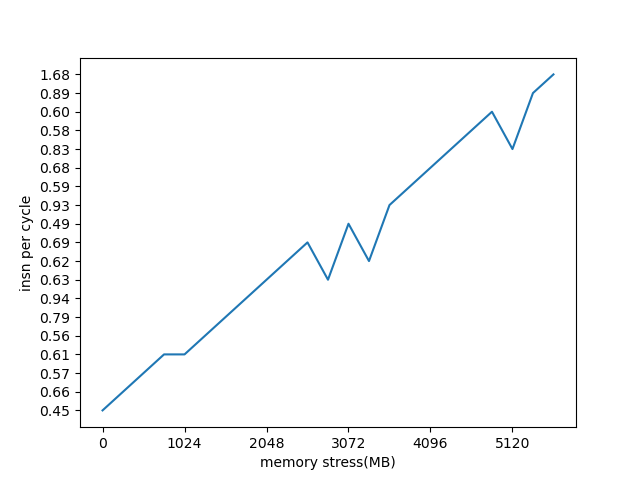
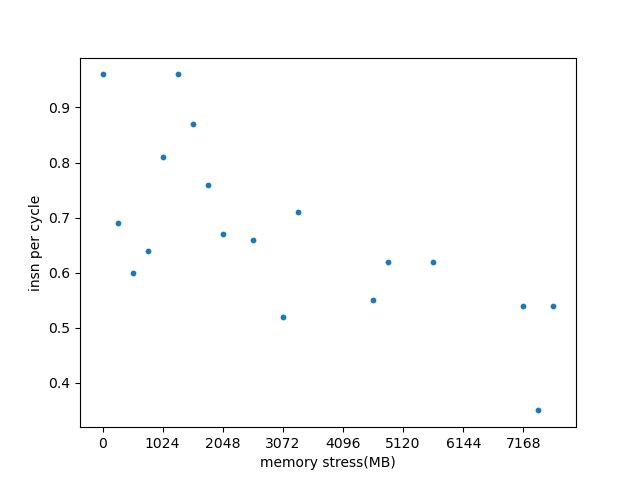
draw pics

diff --git a/data_analyse/redis_cpi.py b/data_analyse/redis_cpi.py
@@ -9,24 +9,44 @@ def read_file(file_name):
     return lines
 
 
-lines = read_file('../results_redis/redis_cpi_mem_202312062251.txt')
+lines = read_file('../results_redis/redis_cpi_mem_202312072211.txt')
 content = ''
-for line in lines:
-    content += line
-
 pattern = r'(\d+\.\d+),insn per cycle'
+cpi = []
+for i in range(1, len(lines)):
+    if i % 4 == 3:
+        print(lines[i])
+        # 如果line[i]中有符合pattern的 则加入cpi
+        result = re.findall(pattern, lines[i])
+        if result:
+            cpi.append(float(result[0]))
+        else:
+            cpi.append(0)
 
-cpi = re.findall(pattern, content)
-print(cpi)
+print(len(cpi))
+
+import pandas as pd
+
+df = pd.DataFrame(cpi)
+# 保存cpi 为csv文件
+df.to_csv("./data_result/redis_cpi_mem.csv", index=False, header=False)
 
 
-# 绘制图像
-plt.plot(cpi)
+# 绘制散点图 值为0的不显示
+# 创建一个索引数组，只包含非0值的索引
+non_zero_indices = [i for i, x in enumerate(cpi) if x != 0]
+
+# 使用这些索引来获取非0的cpi值和相应的横坐标
+non_zero_cpi = [cpi[i] for i in non_zero_indices]
+x_values = [i * 256 for i in non_zero_indices]  # 假设每个索引代表256MB
+
+plt.scatter(x_values, non_zero_cpi, s=10, marker='o')
+
 plt.xlabel('memory stress(MB)')
 # 横坐标从0开始 每次加256M
 
 # 横坐标只在1024的倍数处显示
-plt.xticks(range(0, len(cpi), 4), range(0, len(cpi) * 256, 1024))
+plt.xticks(range(0, max(x_values) + 1, 1024), range(0, max(x_values) + 1, 1024))
 
 plt.ylabel('insn per cycle')
 

diff --git a/data_analyse/data_result/correlation.py b/data_analyse/data_result/correlation.py
@@ -1,0 +1,34 @@
+import pandas as pd
+
+
+def read_data():
+    # 假设文件是纯文本格式，每行一个数值
+    throughout_data = pd.read_csv('./redis_avg_throughout_mem.csv', header=None)
+    cpi_data = pd.read_csv('./redis_cpi_mem.csv', header=None)
+
+    return throughout_data, cpi_data
+
+
+def correlation():
+    throughout_data, cpi_data = read_data()
+
+    # 创建一个布尔索引，表示非零的 CPI 数据行
+    non_zero_cpi_index = cpi_data[0] != 0
+
+    # 使用布尔索引过滤数据
+    filtered_throughout_data = throughout_data[non_zero_cpi_index]
+    filtered_cpi_data = cpi_data[non_zero_cpi_index]
+
+    # 再次检查过滤后的数据长度是否一致
+    if len(filtered_throughout_data) != len(filtered_cpi_data):
+        print("过滤后数据长度不一致，无法计算相关性。")
+        return
+
+    # 计算相关性
+    corr = filtered_throughout_data.corrwith(filtered_cpi_data.iloc[:, 0])
+    return corr[0]
+
+
+# 调用函数
+correlation_value = correlation()
+print("相关性系数 ", correlation_value)

diff --git a/data_analyse/redis_throughout.py b/data_analyse/redis_throughout.py
@@ -10,7 +10,7 @@ def read_file(file_name):
     return lines
 
 
-lines = read_file('../results_redis/redis_throughput_mem_202312062251.txt')
+lines = read_file('../results_redis/redis_throughput_mem_202312072211.txt')
 content = ''
 for line in lines:
     content += line
@@ -29,6 +29,11 @@ for i in range(len(result)):
 
 print(avg_throughout)
 
+import pandas as pd
+
+df = pd.DataFrame(avg_throughout)
+# 保存cpi 为csv文件
+df.to_csv("./data_result/redis_avg_throughout_mem.csv", index=False, header=False)
 # 绘制图像
 plt.plot(avg_throughout)
 plt.xlabel('memory stress(MB)')

diff --git a/README.md b/README.md
@@ -29,3 +29,89 @@ stress-ng --cpu $cpu --vm 1 --vm-bytes $mem --io $io --timeout $benchmark_durati
 如果在使用 redis-benchmark 时不指定 -d 选项，默认的数据大小是 3 字节。这意味着每次 SET 操作存储的数据将默认为 3 字节大小。这个默认值很小，主要是为了快速测试 Redis 的响应时间和吞吐量，而不是为了压力测试或评估内存使用。
 
 因此，如果你想测试 Redis 在处理更大数据量时的性能，建议使用 -d 选项来指定一个较大的数据大小。例如，使用 -d 1000 来测试每个键存储 1KB 数据的场景。这样的测试更能反映 Redis 在实际应用中的表现，特别是对于内存使用和处理大数据负载的能力。
+
+您提供的是 vmstat 命令的输出格式，这是一种在许多 Unix/Linux 系统上用于监控虚拟内存、进程、CPU活动等的工具。下面是对输出中各个指标的解释：
+
+procs (进程):
+
+r: 运行队列中的进程数，即正在运行或等待CPU的进程数量。
+b: 等待IO的进程数，即被阻塞的进程数量。
+memory (内存):
+
+交换 (swpd): 使用的虚拟内存量。
+空闲 (free): 可用内存量。
+缓冲 (buff): 作为缓冲区的内存量。
+缓存 (cache): 作为缓存的内存量。
+swap (交换区):
+
+si: 从交换区到内存的交换速率（每秒读取的数量）。
+so: 从内存到交换区的交换速率（每秒写入的数量）。
+io (输入/输出):
+
+bi: 块设备每秒接收的块数（块读取）。
+bo: 块设备每秒发送的块数（块写入）。
+system (系统):
+
+in: 每秒的中断数，包括时钟中断。
+cs: 每秒的上下文切换数。
+cpu (处理器):
+
+us: 用户时间百分比，用户进程执行时间占CPU总时间的比例。
+sy: 系统时间百分比，内核进程执行时间占CPU总时间的比例。
+id: 空闲时间百分比，无任务执行时CPU的空闲时间比例。
+wa: 等待IO时间百分比，CPU等待IO完成的时间比例。
+st: 被偷取的时间百分比（通常在虚拟环境中），其他虚拟机占用的CPU时间比例。
+
+您提供的是 mpstat 命令的输出结果，这是一个在多核处理器系统中监控各个 CPU 性能的工具。输出结果展示了 CPU 的使用情况，包括各种类型的时间消耗。下面是输出结果中各项指标的含义：
+
+平均时间: 这是一个时间标签，表示这些数据是在某个时间间隔内的平均值。
+
+CPU:
+
+all: 所有CPU的平均数据。
+0, 1, 2, ...: 单个CPU的数据，数字代表具体的CPU编号。
+%usr: 用户空间占用的CPU时间百分比。这是执行用户进程的时间比例（不包括低优先级进程）。
+
+%nice: 用户空间内低优先级进程（nice进程）占用的CPU时间百分比。
+
+%sys: 内核空间占用的CPU时间百分比。这是执行内核进程和中断的时间比例。
+
+%iowait: IO等待时间占用的CPU时间百分比。这是CPU等待磁盘IO完成而未执行其他任务的时间比例。
+
+%irq: 硬中断占用的CPU时间百分比。
+
+%soft: 软中断占用的CPU时间百分比。
+
+%steal: 虚拟环境中，虚拟CPU等待实际CPU资源的时间百分比（在云环境中比较常见）。
+
+%guest: 运行虚拟处理器时占用的CPU时间百分比。
+
+%gnice: 运行低优先级的虚拟处理器时占用的CPU时间百分比。
+
+%idle: CPU空闲时间的百分比。这是CPU未被任何进程使用的时间比例。
+
+
+您提到的 iostate 命令，我假设您指的是 iostat 命令，这是一个用于监控系统输入/输出设备和 CPU 使用情况的工具。让我们分析一下您提供的输出结果：
+
+avg-cpu: 这一部分显示了CPU的平均使用情况。
+
+%user: CPU处理用户级进程的时间百分比（不包括 nice 进程）。
+%nice: CPU处理优先级较低的用户级进程的时间百分比。
+%system: CPU处理系统级（内核）进程的时间百分比。
+%iowait: CPU等待输入/输出完成时间的百分比。
+%steal: 在虚拟化环境中，其他操作系统占用的CPU时间百分比。
+%idle: CPU空闲时间的百分比。
+在您的示例中，大部分时间CPU都处于空闲状态（95.13%），用户空间和系统空间的使用相对较低。
+
+Device: 这部分显示了每个物理或虚拟设备的I/O统计数据。
+
+tps (Transactions Per Second): 每秒I/O事务数。事务通常是指读取或写入操作。
+kB_read/s: 每秒从设备读取的数据量（千字节/秒）。
+kB_wrtn/s: 每秒写入设备的数据量（千字节/秒）。
+kB_dscd/s: 每秒丢弃的数据量（千字节/秒）。
+kB_read: 总共从设备读取的数据量（千字节）。
+kB_wrtn: 总共写入设备的数据量（千字节）。
+kB_dscd: 总共丢弃的数据量（千字节）。
+在您的输出中，具体的设备I/O统计数据没有被提供。这些统计数据对于理解特定设备的负载和性能非常有用，尤其是在诊断磁盘I/O瓶颈或系统性能问题时。
+
+总的来说，iostat 提供了有关CPU使用和I/O性能的关键信息，这对于系统管理员和性能分析人员来说非常宝贵。通过这些数据，可以识别出系统中可能存在的性能瓶颈和资源使用不平衡的问题。
